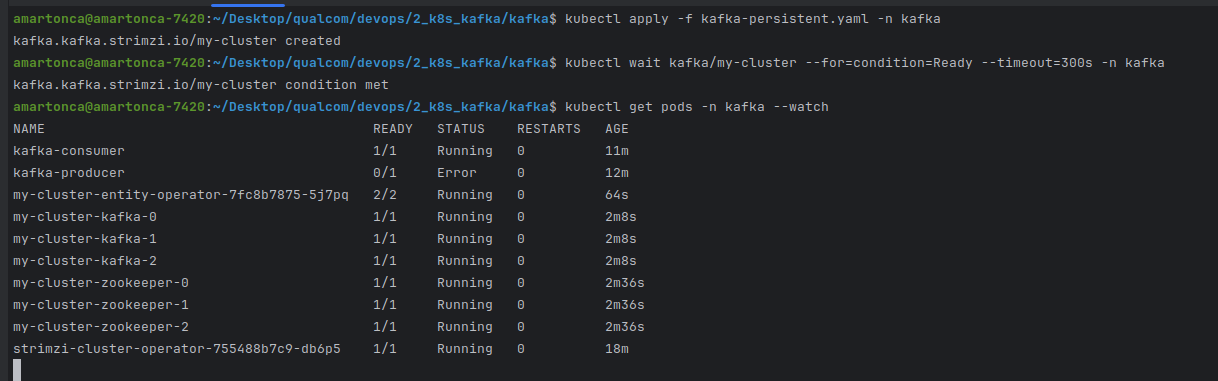
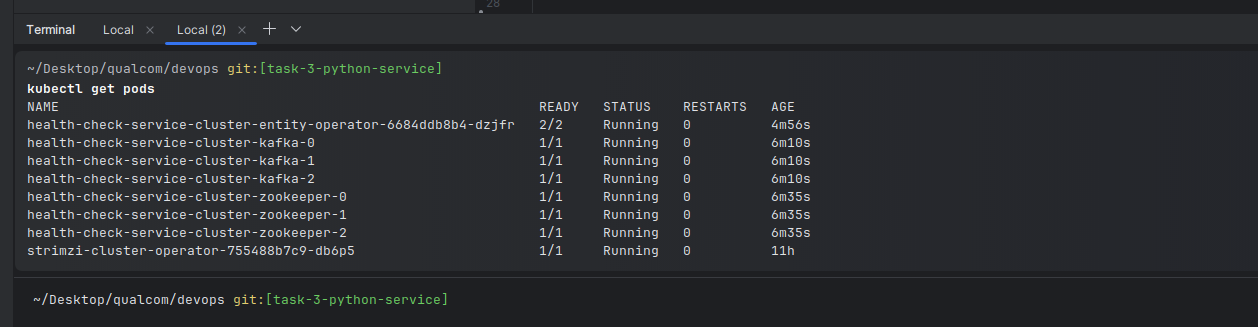
Task 3 - Updated topic creation and manifest for kafka to be accessible outside the cluster

diff --git a/2_k8s_kafka/documentation/README.md b/2_k8s_kafka/documentation/README.md
@@ -11,43 +11,82 @@ Create a topic named health_checks_topic with appropriate configurations.
 ```bash
 kubectl create namespace kafka
 
+# set namespace as default
+kubectl config set-context --current --namespace=kafka
+
 # install Stormzi cluster watcher
-kubectl create -f 'https://strimzi.io/install/latest?namespace=kafka' -n kafka
+kubectl create -f 'https://strimzi.io/install/latest?namespace=kafka'
+```
 
-# Apply the `Kafka` Cluster CR file
-kubectl apply -f kafka-persistent.yaml -n kafka 
+Then I applied the `Kafka` Cluster manifest and waited for services to boot-up
 
-# Wait for services to boot-up
-kubectl wait kafka/my-cluster --for=condition=Ready --timeout=300s -n kafka 
+```bash
+kubectl apply -f kafka-persistent.yaml
+  
+kubectl wait kafka/health-check-service-cluster --for=condition=Ready --timeout=300s
 ```
 
 ![img_1.png](img_1.png)
 
-Then to test that it works:
+To create a topic, I used another manifest:
 
 ```bash
-kubectl -n kafka run kafka-topic-creator -ti --image=quay.io/strimzi/kafka:0.40.0-kafka-3.7.0 --rm=true --restart=Never \
-        -- bin/kafka-topics.sh --bootstrap-server my-cluster-kafka-bootstrap:9092 --topic health_checks_topic --create
+kubectl apply -f kafka-topic.yaml
 ```
+
+And to validate that the topic was created:
+
+```bash
+kubectl run kafka-topic -ti --image=quay.io/strimzi/kafka:0.40.0-kafka-3.7.0 --rm=true --restart=Never \
+        -- bin/kafka-topics.sh --bootstrap-server health-check-service-cluster-kafka-bootstrap:9092 --list
+```
+
+![img.png](img.png)
+
+Then to test that it works i created a producer and a consumer:
 
 Send messages
 
 ```bash
-kubectl -n kafka run kafka-producer -ti --image=quay.io/strimzi/kafka:0.40.0-kafka-3.7.0 --rm=true --restart=Never \
-      -- bin/kafka-console-producer.sh --bootstrap-server my-cluster-kafka-bootstrap:9092 --topic health_checks_topic
+kubectl run kafka-producer -ti --image=quay.io/strimzi/kafka:0.40.0-kafka-3.7.0 --rm=true --restart=Never \
+      -- bin/kafka-console-producer.sh --bootstrap-server health-check-service-cluster-kafka-bootstrap:9092 --topic health_checks_topic
 ```
 
 Receive messages
 
 ```bash
-kubectl -n kafka run kafka-consumer -ti --image=quay.io/strimzi/kafka:0.40.0-kafka-3.7.0 --rm=true --restart=Never \
-    -- bin/kafka-console-consumer.sh --bootstrap-server my-cluster-kafka-bootstrap:9092 --topic health_checks_topic --from-beginning
+kubectl run kafka-consumer -ti --image=quay.io/strimzi/kafka:0.40.0-kafka-3.7.0 --rm=true --restart=Never \
+    -- bin/kafka-console-consumer.sh --bootstrap-server health-check-service-cluster-kafka-bootstrap:9092 --topic health_checks_topic --from-beginning
 ```
 
 ![img_2.png](img_2.png)
+
+To clear all kafka resources I used the following command:
+
+```bash
+kubectl delete -f kafka-persistent.yaml
+
+kubectl delete -f kafka-topic.yaml
+
+kubectl delete pod kafka-topic --ignore-not-found
+kubectl delete pod kafka-producer --ignore-not-found
+kubectl delete pod kafka-consumer --ignore-not-found
+
+```
+
+2. By default, the kafka cluster is not accessible from outside the minikube cluster. To make it accessible, i had to
+   configure node port for the kafka cluster first by editing the `kafka-persistent.yaml` file and then
+   use `minikube service health-check-service-cluster-kafka-external-bootstrap --url -n kafka` to get the url to access
+
+```bash
+minikube service health-check-service-cluster-kafka-external-bootstrap --url -n kafka
+```
+
+![img_3.png](img_3.png)
 
 # Documentation
 
 - namespace : https://kubernetes.io/docs/reference/kubectl/generated/kubectl_create/kubectl_create_namespace/
 - minikube proxies: https://minikube.sigs.k8s.io/docs/handbook/vpn_and_proxy/#macos-and-linux
 - stormzi: https://strimzi.io/quickstarts/
+- access kafka outside the minikube cluster with nodeport: https://strimzi.io/blog/2019/04/23/accessing-kafka-part-2/ 
